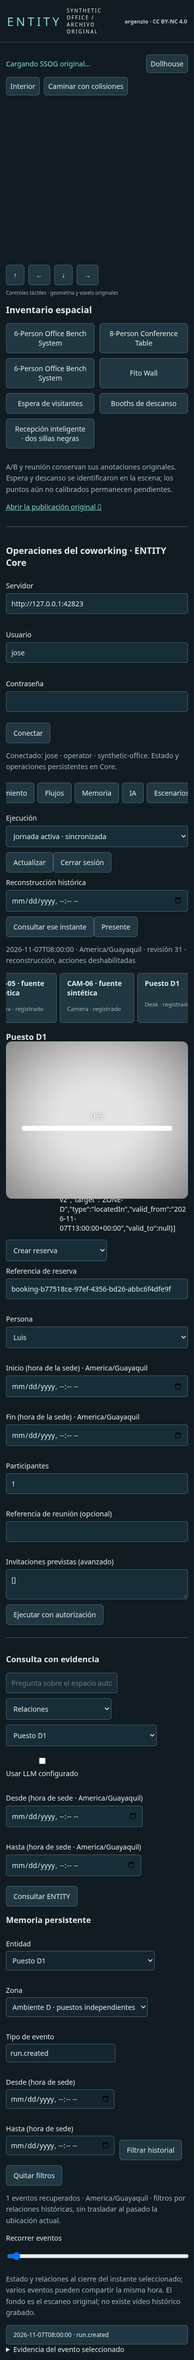
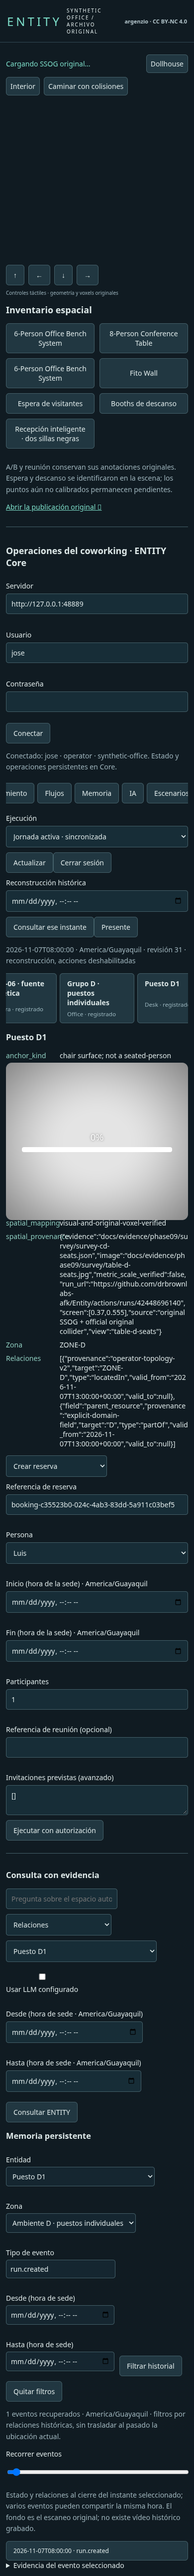
Fit original Dollhouse on touch screens and verify normalized rendered observations

diff --git a/apps/web/tests/office-replay.test.js b/apps/web/tests/office-replay.test.js
@@ -3,5 +3,5 @@ import {ReplayWorld,relations} from '../src/office/world-adapters.js';
 const trace=JSON.parse(fs.readFileSync(new URL('../public/office/demo-trace.json',import.meta.url)));
 test('public replay fractional poses agree with the actual Core exporter',()=>{for(const sample of trace.verification_samples){const w=new ReplayWorld(trace).seek(sample.clock);for(const [id,expected]of Object.entries(sample.people)){const pose=w.entities[id].spatial_pose;assert.equal(pose.animation,expected.animation);pose.position.forEach((v,i)=>assert.ok(Math.abs(v-expected.position[i])<1e-6));}}});
 test('replay is explicitly disconnected and is reversible without erasing history',()=>{const m=new ReplayWorld(trace),at=m.read();assert.equal(at.core_connected,false);assert.equal(at.persistence,'session-only');m.seek('2026-11-07T19:01:00Z');assert.equal(m.read().entities['B-LUIS-public-office-v5'].resource_id,'C3');m.seek(trace.default_clock);assert.deepEqual(m.read(),at);assert.ok(relations(at,'PERSON-CARLOS').some(e=>e.target==='ORG-ENTITY'));});
-test('a local simulated booking is auditable, idempotent and never labelled Core persisted',async()=>{const m=new ReplayWorld(trace),body={id:'local-a',operation:'booking.create',target:'A',inputs:{booking_id:'local-booking',person_id:'PERSON-CARLOS',starts_at:'2026-11-07T14:30:00Z',ends_at:'2026-11-07T15:00:00Z',party_size:2}};const r=await m.command(body);assert.equal(r.status,'simulated');assert.equal(r.core_persisted,false);assert.deepEqual(await m.command(body),r);assert.equal(m.session.length,1);assert.ok(m.read().entities['local-booking']);await assert.rejects(()=>m.command({...body,id:'other',inputs:{...body.inputs,booking_id:'conflict'}}),/Conflicto/);m.seek('2026-11-07T13:00:00Z');assert.equal(m.read().entities['local-booking'],undefined);});
+test('a local simulated booking is auditable, idempotent and never labelled Core persisted',async()=>{const m=new ReplayWorld(trace),body={id:'local-a',operation:'booking.create',target:'A',inputs:{booking_id:'local-booking',person_id:'PERSON-CARLOS',starts_at:'2026-11-07T14:30:00Z',ends_at:'2026-11-07T15:00:00Z',party_size:2}};const r=await m.command(body);assert.equal(r.status,'simulated');assert.equal(r.core_persisted,false);assert.deepEqual(await m.command(body),r);assert.equal(m.session.length,1);assert.ok(m.read().entities['local-booking']);assert.ok(relations(m.read(),'PERSON-CARLOS').some(e=>e.source==='local-booking'&&e.type==='concernsPerson'));assert.ok(m.events('A').some(e=>e.id===body.id));assert.ok(m.events('PERSON-CARLOS').some(e=>e.id===body.id));await assert.rejects(()=>m.command({...body,id:'other',inputs:{...body.inputs,booking_id:'conflict'}}),/Conflicto/);m.seek('2026-11-07T13:00:00Z');assert.equal(m.read().entities['local-booking'],undefined);});
 test('demo adapter respects private ownership and does not execute arbitrary Core actions',async()=>{const m=new ReplayWorld(trace);await assert.rejects(()=>m.command({id:'b',operation:'booking.create',target:'B',inputs:{booking_id:'private-wrong',person_id:'PERSON-CARLOS',starts_at:'2026-11-07T14:30:00Z',ends_at:'2026-11-07T15:00:00Z'}}),/organización/);await assert.rejects(()=>m.command({id:'root',operation:'account.create',target:'site',inputs:{}}),/requiere/);assert.equal(m.session.length,0);});

diff --git a/apps/web/src/office/world-adapters.js b/apps/web/src/office/world-adapters.js
@@ -1,6 +1,8 @@
 import Ajv2020 from 'ajv/dist/2020.js';
 import addFormats from 'ajv-formats';
+import observationSchema from '../../../../packages/contracts/integrations/v1/Observation.json' with {type:'json'};
 const ajv=addFormats(new Ajv2020({strict:false,allErrors:true}));
+const validateObservation=ajv.compile(observationSchema);
 const clone=value=>structuredClone(value);
 const date=value=>Date.parse(value);
 export function relations(world,id){
@@ -53,6 +55,7 @@ export class ReplayWorld {
   this.session.push(event);const result={status:'simulated',event,core_persisted:false};this.receipts.set(body.id,{fingerprint,result});return result;
  }
  async observe(observation){
+  if(!validateObservation(observation))throw Error('Observación v1 inválida: '+ajv.errorsText(validateObservation.errors));
   if(observation.provenance?.simulated!==true||observation.site_id!==this.trace.initial.site_id||date(observation.observed_at)!==date(this.clock))throw Error('Observación fuera del mundo o instante actual');
   const state=this.read(),camera=state.entities[observation.source_id];if(camera?.kind!=='Camera')throw Error('Cámara no declarada');
   const changes={};
@@ -69,5 +72,5 @@ export class CoreWorld {
  read(){return this.state;}
  command(body){return this.request(this.prefix()+'/commands',body);}
  observe(body){return this.request(this.prefix()+'/observations',body);}
- events(){return this.request(this.prefix()+'/events?limit=1000');}
+ events(id){return this.request(this.prefix()+'/events?limit=1000'+(id?'&entity_id='+encodeURIComponent(id):''));}
 }

diff --git a/apps/web/src/office/experience.js b/apps/web/src/office/experience.js
@@ -31,6 +31,7 @@ function location(item,seen=new Set()){
  if(!item||seen.has(item.id))return null;seen.add(item.id);
  if(item.spatial_pose?.validated)return item.spatial_pose.position;
  if(Array.isArray(item.position))return item.position;
+ if(item.kind==='Person')return null; // Organizational membership is not a measured physical pose.
  for(const key of ['resource_id','parent_resource','zone_id','organization_id']){const p=location(current.entities[item[key]],seen);if(p)return p;}
  const occupies=item.relations?.find(e=>e.type==='occupies'&&!e.valid_to);return occupies?location(current.entities[occupies.target],seen):null;
 }

diff --git a/scripts/package-release.py b/scripts/package-release.py
@@ -44,6 +44,6 @@ manifest = {'schema_version': '1.0', 'source_commit': sha,
                             'Source requires dependency download; archive is not an offline installer',
                             'Static zip requires a web host; source Core is local development only',
                             'Office streams the original remote SSOG/voxels; it is not an offline scene package',
-                            'Office, personal and kiosk operations require the same authenticated Core API; static hosting alone supplies no operational world']}
+                            'Live persistent operations, personal and kiosk require authenticated Core; public Office uses explicit Core-generated replay with session-only synthetic actions']}
 (output / 'manifest.json').write_text(json.dumps(manifest, indent=2) + '\n')
 print(json.dumps(manifest, indent=2))

diff --git a/docs/AGENT-WORKLOG.md b/docs/AGENT-WORKLOG.md
@@ -424,3 +424,9 @@ Fase09 EN CURSO; PR#2/rama autorizada, sin merge ni aprobación. Pendientes inme
 67fef48 publicado. Run42450609510 carga SSOGoriginal ylos dosGLB reales; desktop selección/grafo/feed/interior/tiempo/reservaPASS, móvilFAILpor etiquetas superpuestas que interceptan un toque. Capturas revisadas directamente: ángulo desdeparedopaca/artefactos deescaneo perjudicaDollhouse; primerfeed capturadoantesdequeelSDKcomplete residencia estaba vacío. Se corrigen encuadre desdeelotro lado, fondo oscuro, recorte horizontal másbajo, distribución depantalla deetiquetas (sinmoveranclasCore) y calentamiento delmanagerCCTV. El test ahora exige splatsresidentes antesdeaceptarfeed; pendientes nuevascapturas, no se declaraaceptación visual.
 Regresióncorrecta: PYTHONPATH=services/entity-api .venv/bin/python -m unittest discover -s services/entity-api/tests,86PASS65.474s. Fallóantesunaexpectativa antigua deInventoryItem partOfsite; el padreahoraconfirmadoesC/D y secompruebatipado ese vínculo, no sequitóelaserto. Frontend15PASS/buildPASS. Dockerreconstruido/bootstrapmigradorealPASS; smoke-office-docker.pyPASS112entidades/24eventosconservados, relojactivorecuperadoenpausa, fuentedelaimagencomparada yCore8000preservado. AdvertenciaorphanComposeeselCoreanteriorintencionalmenteconservado; no seelimina.
 NativaCoreHTTP1440/390PASS contraDocker8010: loginreal, proyectodemoworld, calibraciónC1 yseispuestosC, sinpageerrors. native-core-http.json: noafirmaescenaSSOGlocal por403delproxy. RecepciónE2Ecompletaen ejecución. Fase09EN CURSO, sinmerge/aprobación.
+
+
+### 2026-11-08 — Codex: iteración visual con original y recepción real
+Run42450920193 confirma desktop completo yfeedconSSOGresidentes; móvil falla porque D queda fuera delcampo horizontal, no se debilita el criterio: se corrige la cámara para orientar el largo del sitio en vertical. Capturas reales inspeccionadas, sin sustituirlas por imágenes ideales. La captura tiene artefactos deGaussianSplatting fuera de las paredes; no se presenta como un modelo arquitectónico limpio. Se mantienen límites de rutas calibradas a un minuto, no jornadaespacialcompleta.
+Añadida validación Observationv1 mediante Ajv enadaptadorpúblico ycomprobación de captura/trackanónimo real delrender en el E2Eoriginal. Memoria deladaptadorCore consulta entity_id enservidor; memoria localresuelvepersonayrecursodelaacción con relacionesconcernsPerson/usesResource. Unaafiliaciónorganizacionalno seconvierteenposiciónfísica de unapersonasinpose.
+RecepciónHTTP/procesos/tresclientes1280/390PASS:103entidades/19eventos conservados, backupSQLiteíntegro; pruebasde permisos/revocación/formulariovivo/horasdeagenda/privacidad del visor siguenoperativas. Evidencia reception-http-process.json y capturas actualizadas. 15frontendPASS después delos cambios;buildPASS. No aprobación ni avancefase.

diff --git a/docs/PHASE-09-PROGRESS.md b/docs/PHASE-09-PROGRESS.md
@@ -155,3 +155,9 @@ Fase09 EN CURSO; PR#2/rama autorizada, sin merge ni aprobación. Pendientes inme
 67fef48 publicado. Run42450609510 carga SSOGoriginal ylos dosGLB reales; desktop selección/grafo/feed/interior/tiempo/reservaPASS, móvilFAILpor etiquetas superpuestas que interceptan un toque. Capturas revisadas directamente: ángulo desdeparedopaca/artefactos deescaneo perjudicaDollhouse; primerfeed capturadoantesdequeelSDKcomplete residencia estaba vacío. Se corrigen encuadre desdeelotro lado, fondo oscuro, recorte horizontal másbajo, distribución depantalla deetiquetas (sinmoveranclasCore) y calentamiento delmanagerCCTV. El test ahora exige splatsresidentes antesdeaceptarfeed; pendientes nuevascapturas, no se declaraaceptación visual.
 Regresióncorrecta: PYTHONPATH=services/entity-api .venv/bin/python -m unittest discover -s services/entity-api/tests,86PASS65.474s. Fallóantesunaexpectativa antigua deInventoryItem partOfsite; el padreahoraconfirmadoesC/D y secompruebatipado ese vínculo, no sequitóelaserto. Frontend15PASS/buildPASS. Dockerreconstruido/bootstrapmigradorealPASS; smoke-office-docker.pyPASS112entidades/24eventosconservados, relojactivorecuperadoenpausa, fuentedelaimagencomparada yCore8000preservado. AdvertenciaorphanComposeeselCoreanteriorintencionalmenteconservado; no seelimina.
 NativaCoreHTTP1440/390PASS contraDocker8010: loginreal, proyectodemoworld, calibraciónC1 yseispuestosC, sinpageerrors. native-core-http.json: noafirmaescenaSSOGlocal por403delproxy. RecepciónE2Ecompletaen ejecución. Fase09EN CURSO, sinmerge/aprobación.
+
+
+### 2026-11-08 — Codex: iteración visual con original y recepción real
+Run42450920193 confirma desktop completo yfeedconSSOGresidentes; móvil falla porque D queda fuera delcampo horizontal, no se debilita el criterio: se corrige la cámara para orientar el largo del sitio en vertical. Capturas reales inspeccionadas, sin sustituirlas por imágenes ideales. La captura tiene artefactos deGaussianSplatting fuera de las paredes; no se presenta como un modelo arquitectónico limpio. Se mantienen límites de rutas calibradas a un minuto, no jornadaespacialcompleta.
+Añadida validación Observationv1 mediante Ajv enadaptadorpúblico ycomprobación de captura/trackanónimo real delrender en el E2Eoriginal. Memoria deladaptadorCore consulta entity_id enservidor; memoria localresuelvepersonayrecursodelaacción con relacionesconcernsPerson/usesResource. Unaafiliaciónorganizacionalno seconvierteenposiciónfísica de unapersonasinpose.
+RecepciónHTTP/procesos/tresclientes1280/390PASS:103entidades/19eventos conservados, backupSQLiteíntegro; pruebasde permisos/revocación/formulariovivo/horasdeagenda/privacidad del visor siguenoperativas. Evidencia reception-http-process.json y capturas actualizadas. 15frontendPASS después delos cambios;buildPASS. No aprobación ni avancefase.

diff --git a/docs/PROJECT-STATUS.md b/docs/PROJECT-STATUS.md
@@ -127,3 +127,9 @@ Causa reproducida de la demo vacía: operations.js exigía login antes de emitir
 Topología5: A/B oficinas completas; C/D seis puestos cada grupo; sin E ni Cstaff en jornadas nuevas. Migración conserva IDs, reservas y eventos antiguos; retira recursos obsoletos sin reasignación silenciosa. Calibración C/D y doce sillas procede de rayos del collider oficial en survey42448696140, sin afirmar escala métrica ni usar sillas como rutas humanas.
 Pruebas frontend: npm --prefix apps/web test,15PASS; buildPASS. Chromium local1440/390: selección/grafo/feed/reloj/pausa/reserva de sesión/memoria/sin overflow ni pageerrorsPASS. Este ensayo local es SOLO estado/interacción: carga remota SSOG403 del proxy, NO validación visual del lugar. Prueba completa sobreSSOG yURLPages preparada enActions con informes/capturas nativas, pendiente de ejecución al publicar. Regresión backend actual en ejecución; resultados se registrarán por separado. Primer comando de unittest carecía de PYTHONPATH y falló importación; corregido a PYTHONPATH=services/entity-api .venv/bin/python -m unittest discover -s services/entity-api/tests.
 Fase09 EN CURSO; PR#2/rama autorizada, sin merge ni aprobación. Pendientes inmediatos: inspeccionar capturas reales escritorio/móvil, corregir integración si falla y ejecutar regresiones Docker/API actuales. No fase10/11.
+
+
+### 2026-11-08 — Codex: iteración visual con original y recepción real
+Run42450920193 confirma desktop completo yfeedconSSOGresidentes; móvil falla porque D queda fuera delcampo horizontal, no se debilita el criterio: se corrige la cámara para orientar el largo del sitio en vertical. Capturas reales inspeccionadas, sin sustituirlas por imágenes ideales. La captura tiene artefactos deGaussianSplatting fuera de las paredes; no se presenta como un modelo arquitectónico limpio. Se mantienen límites de rutas calibradas a un minuto, no jornadaespacialcompleta.
+Añadida validación Observationv1 mediante Ajv enadaptadorpúblico ycomprobación de captura/trackanónimo real delrender en el E2Eoriginal. Memoria deladaptadorCore consulta entity_id enservidor; memoria localresuelvepersonayrecursodelaacción con relacionesconcernsPerson/usesResource. Unaafiliaciónorganizacionalno seconvierteenposiciónfísica de unapersonasinpose.
+RecepciónHTTP/procesos/tresclientes1280/390PASS:103entidades/19eventos conservados, backupSQLiteíntegro; pruebasde permisos/revocación/formulariovivo/horasdeagenda/privacidad del visor siguenoperativas. Evidencia reception-http-process.json y capturas actualizadas. 15frontendPASS después delos cambios;buildPASS. No aprobación ni avancefase.
